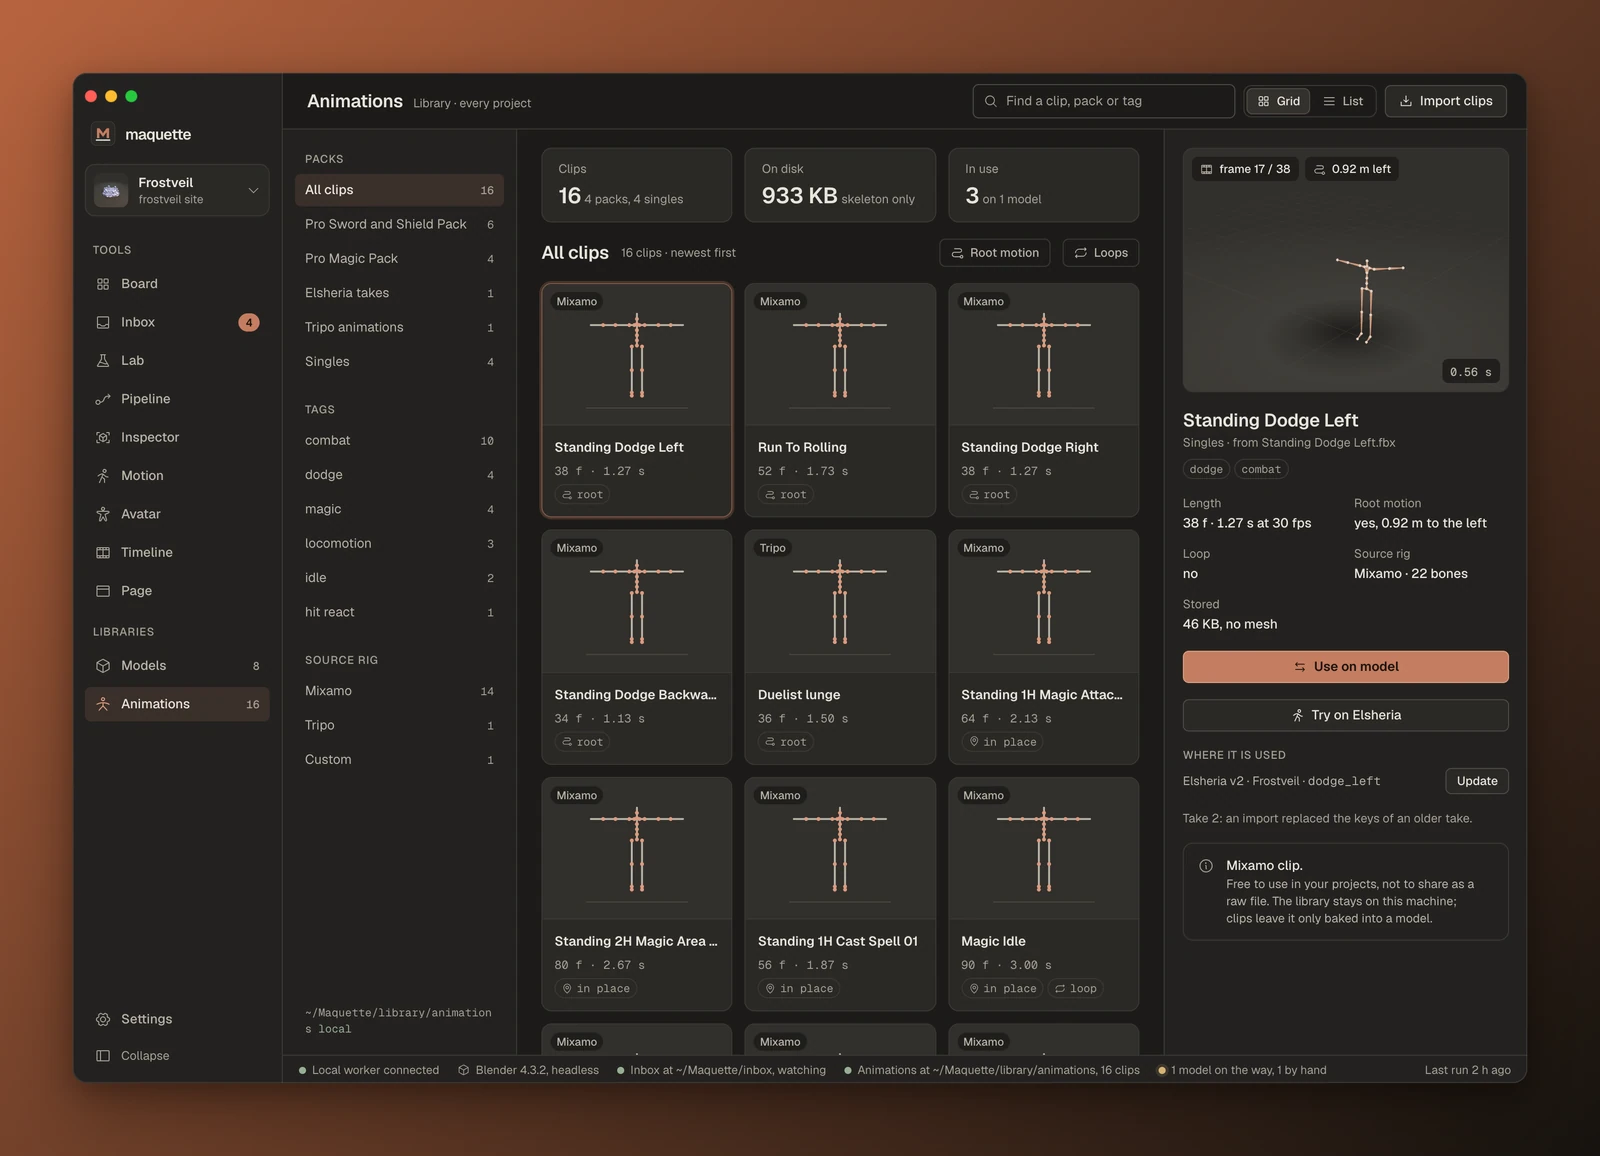
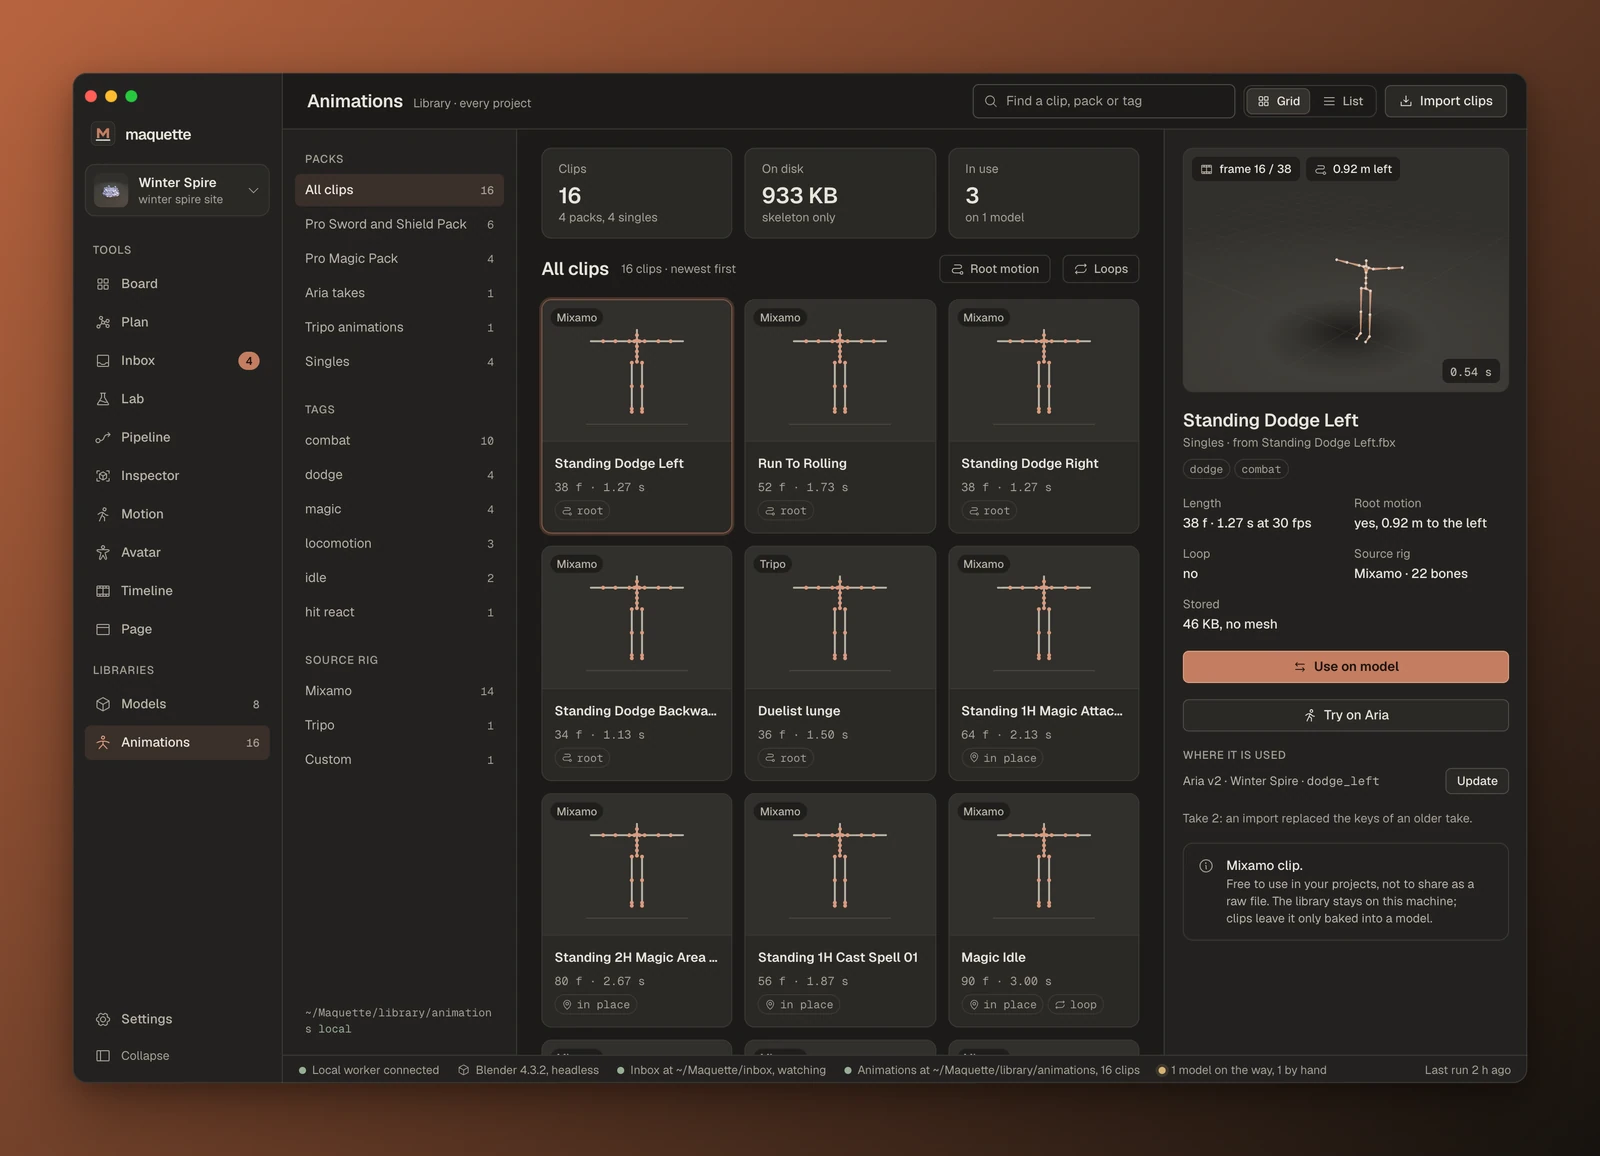
docs(docs): retake the older readme images with the neutral sample names

diff --git a/README.md b/README.md
@@ -66,7 +66,7 @@ Concept  ->  Refs  ->  3D model  ->  Blender  ->  Web or Export  ->  Ship
 
 <table>
   <tr>
-    <td width="50%"><img src="assets/showcase/inbox.webp" alt="Maquette: the Inbox previewing Elsheria, a rigged character from Frostveil, with its automatic checks on the right" /></td>
+    <td width="50%"><img src="assets/showcase/inbox.webp" alt="Maquette: the Inbox previewing Aria, a rigged character from the Winter Spire sample, with its automatic checks on the right" /></td>
     <td width="50%"><img src="assets/showcase/pipeline.webp" alt="Maquette: the Pipeline view mid run, with six steps, the bake settings, the generated artifacts, a live log and the compression presets" /></td>
   </tr>
   <tr>
@@ -162,7 +162,7 @@ Concept  ->  Refs  ->  3D model  ->  Blender  ->  Web or Export  ->  Ship
     <td align="center"><sub>Refs by view: tagged refs, with warnings before any credit is spent.</sub></td>
   </tr>
   <tr>
-    <td width="50%"><img src="assets/showcase/avatar.webp" alt="Maquette: the Avatar view asking to approve a new rest pose for Elsheria, with before and after sheets of the arms lifted to a T-pose and the measures before and after" /></td>
+    <td width="50%"><img src="assets/showcase/avatar.webp" alt="Maquette: the Avatar view asking to approve a new rest pose for Aria, with before and after sheets of the arms lifted to a T-pose and the measures before and after" /></td>
     <td width="50%"></td>
   </tr>
   <tr>
